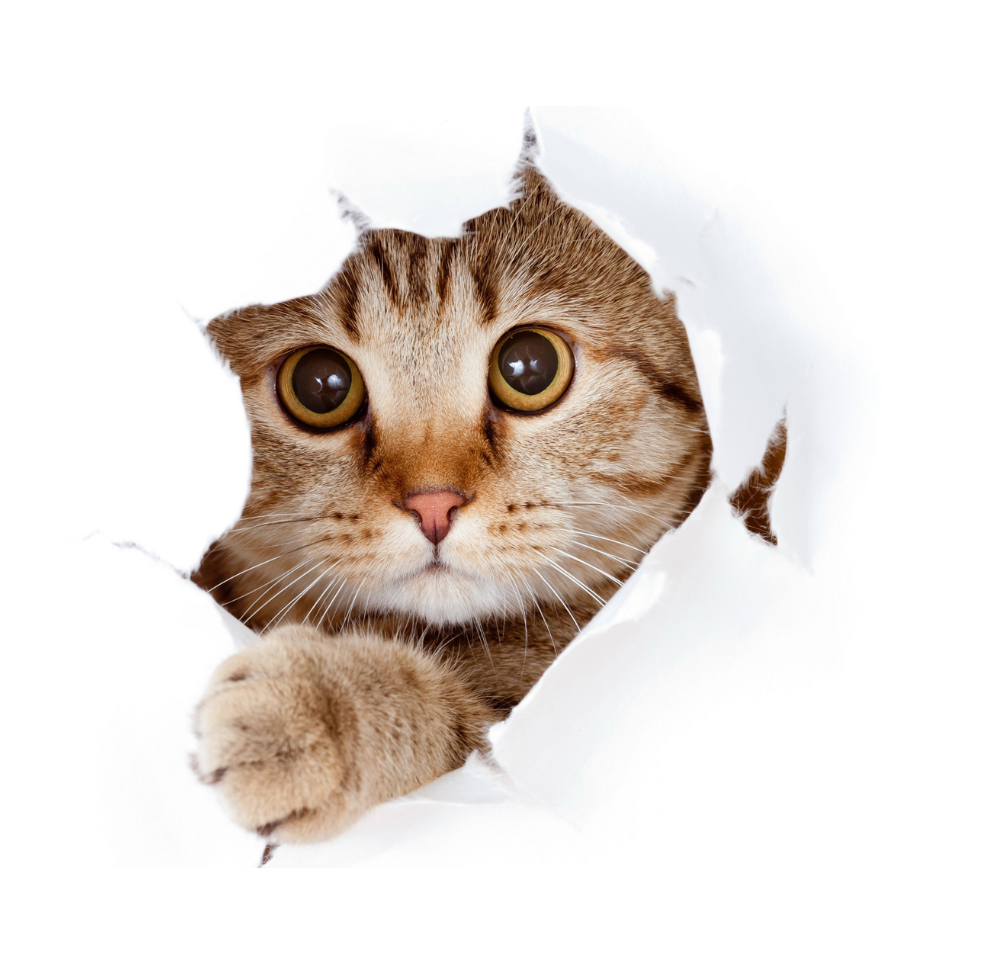
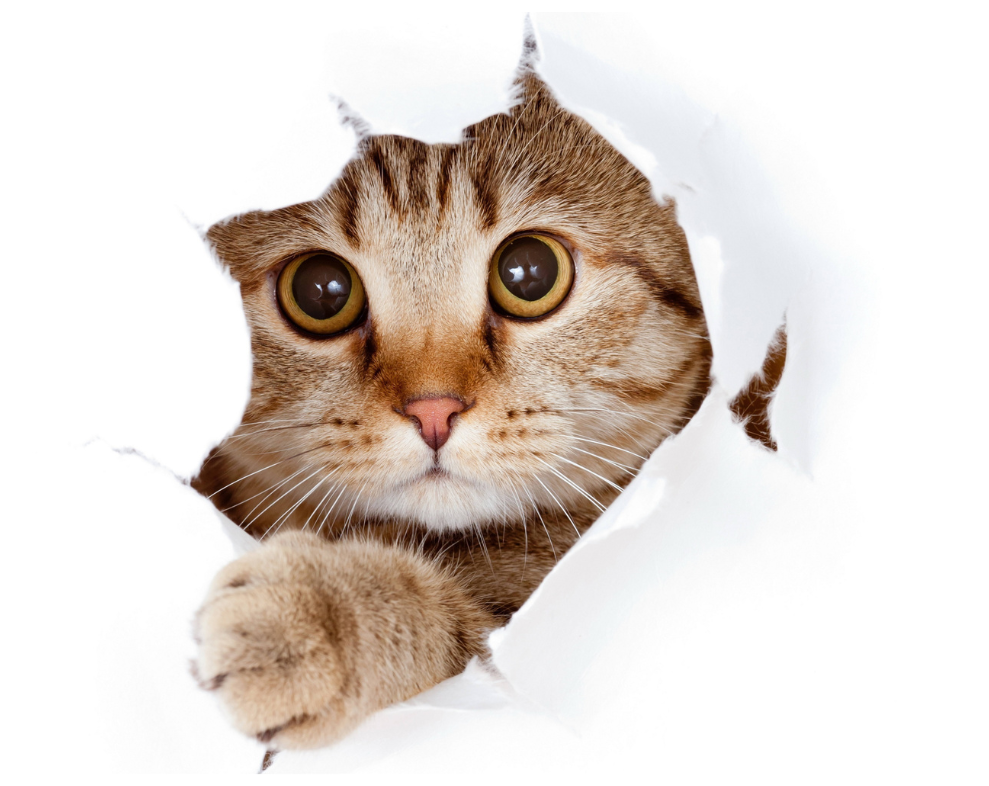
about page part 1 complete

Changed region(s): [[0.182, 0.0305, 0.819, 0.9771], [0.1213, 0.5496, 0.1517, 0.5802]]

diff --git a/src/pages/about/index.js b/src/pages/about/index.js
@@ -1,8 +1,18 @@
-
+import PageHead from "@/components/modules/PageHead/PageHead";
 export default function About() {
     return (
-        <div>
-            about
+        <div className="mb-20">
+            <PageHead title="درباره ما" image="cat-4.png" />
+            <div className="container">
+                <div className="grid grid-cols-2">
+                    <div>
+                        <p className="text-2xl/8 md:text-4xl/12 font-danaBold text-primary">درباره پیلیسوک</p>
+                        <p className="text-xl/7 text-dark-secondary my-5 max-w-140">پت شاپ پیلیسوک با عشق به حیوانات و با هدف فراهم کردن بهترین تجربه برای صاحبان پتها راهاندازی شده است. ما باور داریم حیوانات خانگی عضوی از خانواده هستند و شایسته بهترین مراقبت و توجهاند. به همین دلیل، مجموعهای کامل از محصولات باکیفیت، خدمات تخصصی، و پشتیبانی حرفهای را گرد هم آوردهایم تا هر آنچه که پت دوستداشتنیتان نیاز دارد، در یک مکان قابل دسترس باشد.
+                            در پیلیسوک میتوانید به طیف وسیعی از غذاهای برند، لوازم بهداشتی، اسباببازی، خدمات دامپزشکی، اصلاح و شستوشوی حیوانات خانگی و مشاوره تخصصی دسترسی داشته باشید. تیم ما از افراد علاقهمند و متخصص تشکیل شده که اولویتشان سلامت، شادی و رفاه پت شماست. ما اینجاییم تا تجربهای مطمئن، دلگرمکننده و بیدردسر از نگهداری حیوان خانگی برای شما بسازیم.</p>
+                    </div>
+                    <img src="/images/cut-cat.png" alt="" />
+                </div>
+            </div>
         </div>
     );
 }

diff --git a/src/pages/contact/index.js b/src/pages/contact/index.js
@@ -6,7 +6,7 @@ import dynamic from 'next/dynamic';
 export default function Contact() {
 
 
-    const Map = dynamic(() => import('@/components/templates/Contact/Map'), {
+    const ContactMap = dynamic(() => import('@/components/templates/Contact/ContactMap'), {
         ssr: false,
     });
 
@@ -16,7 +16,7 @@ export default function Contact() {
             <div className="container grid grid-cols-1 lg:grid-cols-2 gap-10">
                 <ContactInfo />
                 <ContactForm />
-                <Map />
+                <ContactMap />
             </div>
         </div>
     );

diff --git a/src/components/modules/PageHead/PageHead.js b/src/components/modules/PageHead/PageHead.js
@@ -15,7 +15,7 @@ export default function PageHead({ title, image }) {
                     dragElastic={0.2}
                     whileDrag={{ cursor: "grabbing" }}
                     src={`/images/${image}`}
-                    className="w-50 md:w-70"
+                    className="w-50 md:w-60"
                 />
             </div>
         </div>
